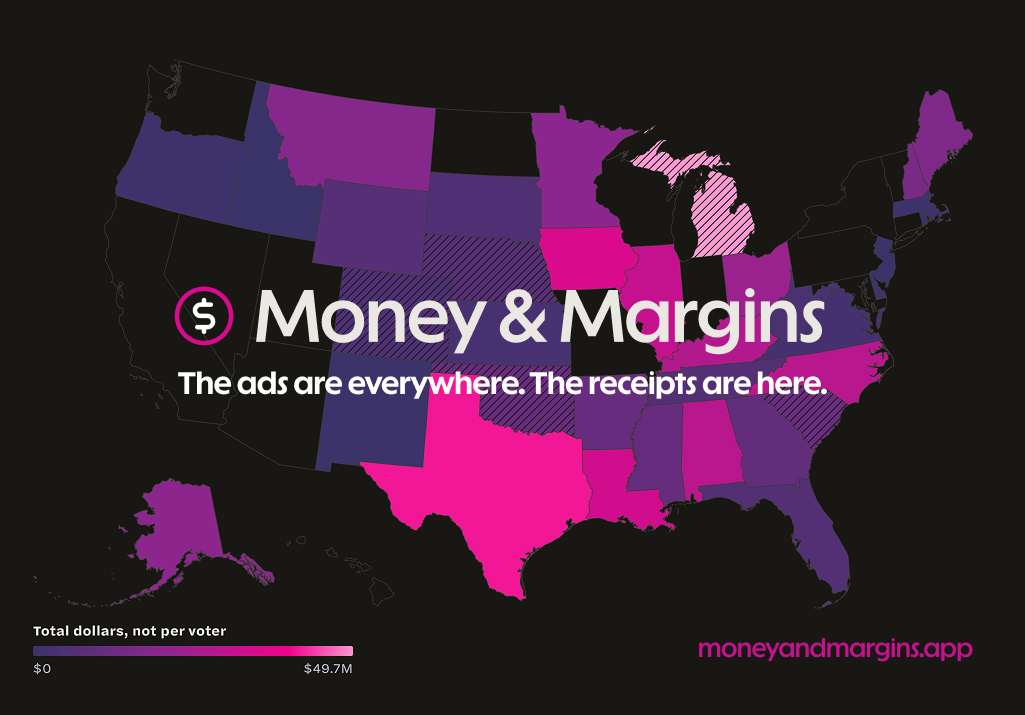
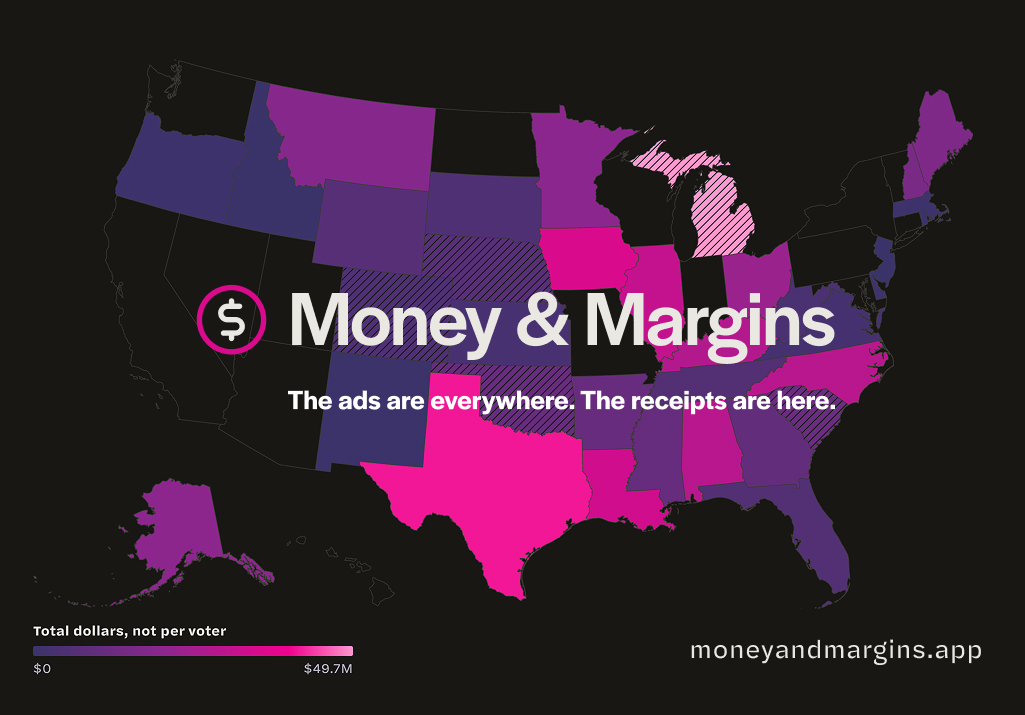
Use the new social card

Changed region(s): [[0.1561, 0.4, 0.8117, 0.5846], [0.6556, 0.8923, 0.9678, 0.9231]]

diff --git a/index.html b/index.html
@@ -11,14 +11,14 @@
     <meta property="og:title" content="Money &amp; Margins" />
     <meta property="og:description" content="Interactive map of outside spending in 2026 U.S. Senate races. See what groups reported spending for and against each nominee, with sources from the FEC." />
     <meta property="og:url" content="https://moneyandmargins.app/" />
-    <meta property="og:image" content="https://moneyandmargins.app/social-card.jpg" />
+    <meta property="og:image" content="https://moneyandmargins.app/social-card.jpg?v=2" />
     <meta property="og:image:width" content="1025" />
     <meta property="og:image:height" content="715" />
     <meta property="og:image:alt" content="Map of the United States shaded by outside spending in 2026 Senate races, with the Money &amp; Margins logo and the line: The ads are everywhere. The receipts are here." />
     <meta name="twitter:card" content="summary_large_image" />
     <meta name="twitter:title" content="Money &amp; Margins" />
     <meta name="twitter:description" content="Interactive map of outside spending in 2026 U.S. Senate races. See what groups reported spending for and against each nominee, with sources from the FEC." />
-    <meta name="twitter:image" content="https://moneyandmargins.app/social-card.jpg" />
+    <meta name="twitter:image" content="https://moneyandmargins.app/social-card.jpg?v=2" />
     <meta name="theme-color" content="#181714" />
     <link rel="icon" type="image/png" href="/images/favicon.png" />
     <link rel="apple-touch-icon" href="/images/favicon.png" />
